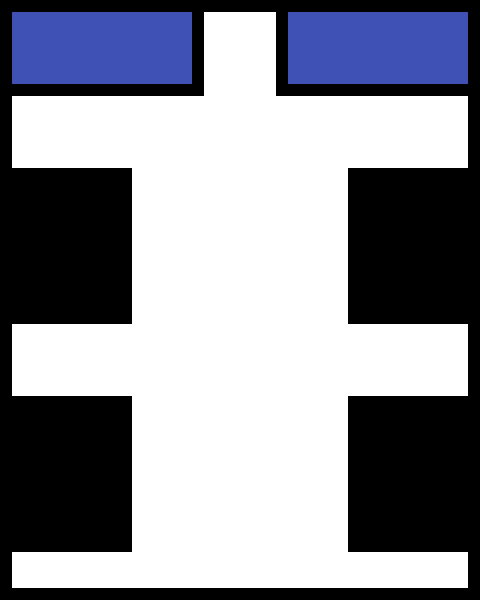
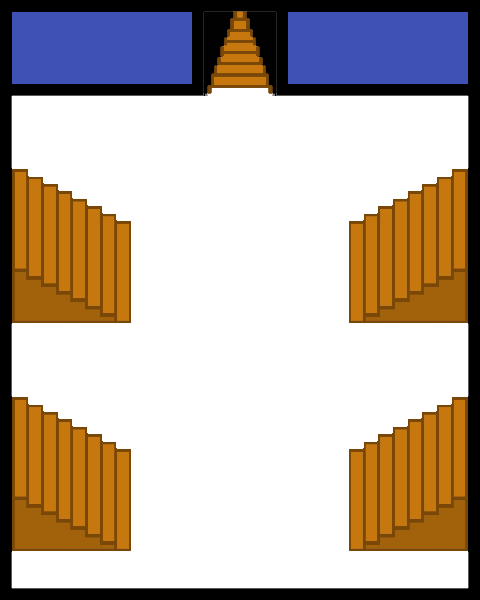
ajustes

diff --git a/Fase1.py b/Fase1.py
@@ -169,14 +169,14 @@ def fase1():
         if c>t:
             t=c
         if 'Fase1' not in inventario:
-            text_surface = score_font.render("Você Perdeu" , True, PRETO)
-            text_surface1 = score_font.render("Pontuação Atual:", True, PRETO)
-            text_surface2 = score_font.render("Recorde Atual:", True, PRETO)
-            text_surface3 = score_font.render("{0} segundos".format(int(c)) , True, PRETO)
-            text_surface4 = score_font.render("{0} segundos".format(int(t)) , True, PRETO)
+            text_surface = score_font.render("Você Perdeu" , True, BRANCO)
+            text_surface1 = score_font.render("Pontuação Atual:", True, BRANCO)
+            text_surface2 = score_font.render("Recorde Atual:", True, BRANCO)
+            text_surface3 = score_font.render("{0} segundos".format(int(c)) , True, BRANCO)
+            text_surface4 = score_font.render("{0} segundos".format(int(t)) , True, BRANCO)
             
         else:
-            text_surface = score_font.render("Você Ganhou" , True, PRETO)
+            text_surface = score_font.render("Você Ganhou" , True, BRANCO)
         running = True
         while running:
             
@@ -196,7 +196,7 @@ def fase1():
                     running = False
                         
             # A cada loop, redesenha o fundo e os sprites
-            skn.fill(AMARELO)
+            skn.blit(venombg,background_rect)
             skn.blit(text_surface,(72,192))
             if 'Fase1' not in inventario:
                 skn.blit(text_surface1,(10,252))
@@ -221,6 +221,8 @@ def fase1():
     skn = pygame.display.set_mode((WIDTH,HEIGHT))
     pygame.mixer.music.load('megalovania.wav')
     pygame.mixer.music.set_volume(2)
+    venombg = pygame.image.load('venom.bg.jpg').convert()
+    venombg=pygame.transform.scale(venombg, (480, 600))
     background = pygame.image.load('Chãolava.png').convert()
     background1 = pygame.image.load('Cursor.png').convert()
     #background2 = pygame.image.load('venom.png').convert()

diff --git a/mapa.py b/mapa.py
@@ -105,7 +105,7 @@ class jogador(pygame.sprite.Sprite):
             fase5()
             pygame.quit()
               
-        print(self.rect.x,self.rect.y)
+        
      
 
 pygame.init()
@@ -113,7 +113,10 @@ pygame.mixer.init()
 clock = pygame.time.Clock()
 pygame.mixer.music.load('pokemonsong.wav')
 pygame.mixer.music.set_volume(2)
+bgc = pygame.image.load("chão.png").convert()
+background1 = pygame.transform.scale(bgc, (WIDTH,HEIGHT))
 bg = pygame.image.load("mapa.png").convert()
+bg.set_colorkey(BRANCO)
 background = pygame.transform.scale(bg, (WIDTH,HEIGHT))
 background_rect = background.get_rect()
 score_font=pygame.font.Font("PressStart2P.ttf", 28)
@@ -169,6 +172,7 @@ while run:
                 player.speedy = 0
             if event.key == pygame.K_DOWN:
                 player.speedy = 0
+    skn.blit(background1,background_rect)
     skn.blit(background,background_rect)
     skn.blit(text_surface,(13,327))
     skn.blit(text_surface2,(350,328))
@@ -177,8 +181,8 @@ while run:
     if 'all' in inventario:
         skn.blit(text_surface5,(13,50))
         skn.blit(text_surface5,(300,50))
-    skn.blit(sonic,(340,400))
-    skn.blit(venom,(40,400))
+    skn.blit(sonic,(360,380))
+    skn.blit(venom,(40,380))
     all_sprites.update()        
     all_sprites.draw(skn)                       
     pygame.display.flip()
